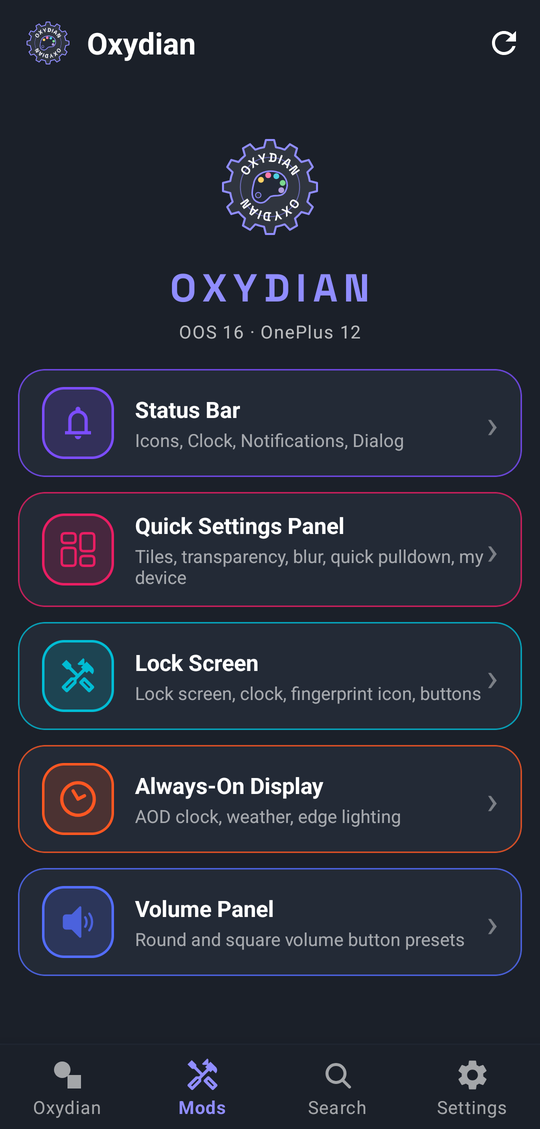
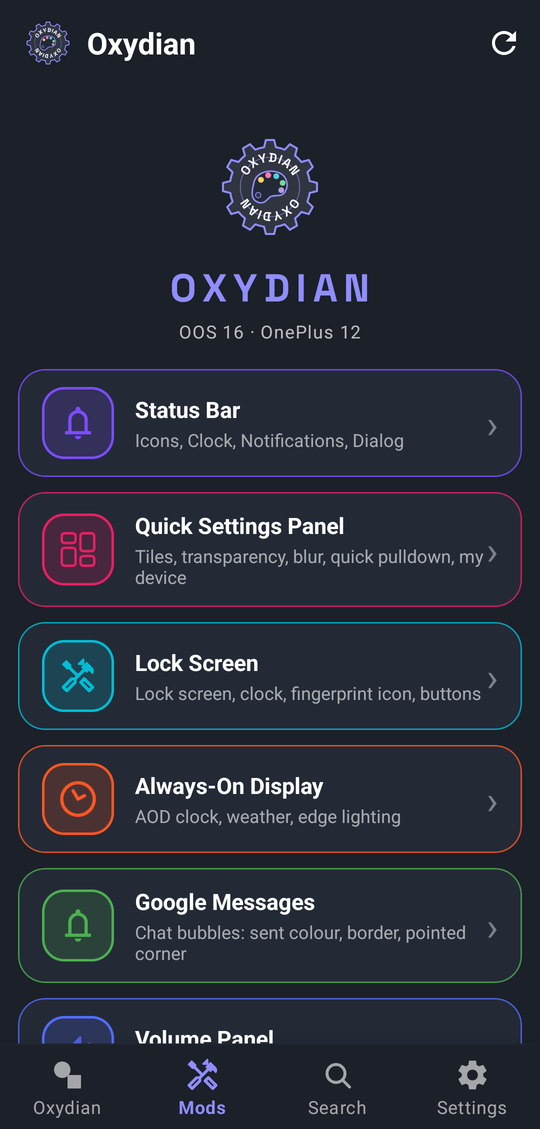
Tutorial: Google Messages chapter and updated Mods screenshots

diff --git a/docs/TUTORIAL.it.md b/docs/TUTORIAL.it.md
@@ -13,7 +13,7 @@ Una guida passo passo: dall'installazione alle prime personalizzazioni.
 - **LSPosed** (o un altro framework Xposed) installato e funzionante
 - Facoltativa ma consigliata: l'app compagna **[Oxydian Theme](https://github.com/tugaia56/Oxydian-Theme/releases/latest)**. Non richiede Xposed e si occupa dei veri temi overlay (colori di accento e sfondo, temi per le app, icone, tastierino del PIN…). Oxydian legge i colori scelti lì, quindi le due app danno il meglio insieme.
 
-> Oxydian è pensato per il **tema scuro**. Con il tema chiaro alcune mod dell'aspetto del sistema (stili notifica, toast, dialog) restano spente e l'aspetto originale non viene toccato. Vedi [Tema chiaro](#7-tema-chiaro).
+> Oxydian è pensato per il **tema scuro**. Con il tema chiaro alcune mod dell'aspetto del sistema (stili notifica, toast, dialog) restano spente e l'aspetto originale non viene toccato. Vedi [Tema chiaro](#8-tema-chiaro).
 
 ---
 
@@ -65,6 +65,7 @@ Il pulsante a forma di freccia circolare, in alto a destra in ogni pagina, è **
 | **Pannello Impostazioni Rapide** | Sfondo e forma dei riquadri, immagine e orologio dell'intestazione, widget, trasparenza e sfocatura |
 | **Schermata di Blocco** | Widget, orologio, meteo, copertina musicale, icona impronta, pulsanti |
 | **Always-On Display** | Orologio AOD, meteo, luce sui bordi |
+| **Google Messaggi** | Aspetto delle bolle della chat di Google Messaggi: colori, bordo, angolo a punta (vedi il [capitolo 5](#5-google-messaggi-bolle-della-chat)) |
 | **Pannello volume** | Colori e preset dei pulsanti |
 
 Esempio di pagina: **Barra di Stato**, con le opzioni varie (tra cui nascondi icona SIM 1 e SIM 2):
@@ -109,7 +110,31 @@ Cambiamo qualcosa che si vede subito.
 
 ---
 
-## 5. Colori: Oxydian + Oxydian Theme
+## 5. Google Messaggi: bolle della chat
+
+Oxydian può cambiare l'aspetto delle bolle della chat di **Google Messaggi**. È una mod Xposed, quindi serve un passaggio in più:
+
+1. In **LSPosed → Moduli → Oxydian**, spunta **Messaggi** (Google Messaggi) nell'ambito.
+2. Chiudi e riapri Messaggi.
+
+Poi apri **Mods → Google Messaggi**:
+
+<p align="center"><img src="img/it_10_messaggi.png" width="230" alt="Pagina Google Messaggi"></p>
+
+- **Bolle**
+  - *Colore delle bolle ricevute*: originale, oppure un colore a scelta.
+  - *Colore delle bolle inviate*: originale, scuro come le ricevute, il colore di accento al 50 % di trasparenza, oppure un colore a scelta (anche trasparente). Il testo diventa chiaro o scuro da solo per restare leggibile.
+- **Forma**
+  - *Bordo delle bolle*: un bordo sottile attorno a ogni bolla, con un colore diverso per ricevute e inviate (l'accento o un colore a scelta) e uno spessore regolabile.
+  - *Angolo a punta*: l'angolo in basso è a punta, a destra sulle bolle inviate e a sinistra su quelle ricevute. Anche gli angoli di unione tra bolle consecutive sono a punta.
+
+Le modifiche si vedono quando la chat viene ridisegnata: scorrila un po' o riaprila. Se non cambia niente, controlla che Messaggi sia spuntato in LSPosed e riavvia l'app.
+
+> La mod segue il modo in cui Google disegna oggi le bolle. Se un aggiornamento di Messaggi lo cambia, le bolle tornano semplicemente all'aspetto originale.
+
+---
+
+## 6. Colori: Oxydian + Oxydian Theme
 
 Oxydian non ridipinge da solo tutto il sistema. I colori di sistema (accento e sfondo) si scelgono in **Oxydian Theme**, che costruisce veri overlay; Oxydian usa poi lo stesso accento per le sue mod (bordi, riquadri, menù di accensione…).
 
@@ -120,7 +145,7 @@ Ordine consigliato:
 
 ---
 
-## 6. Backup e ripristino
+## 7. Backup e ripristino
 
 Prima di fare molte prove, salva le impostazioni.
 
@@ -136,7 +161,7 @@ Tieni una copia del backup fuori dal telefono (cloud o PC) prima di installare d
 
 ---
 
-## 7. Tema chiaro
+## 8. Tema chiaro
 
 Oxydian è compatibile al 100 % con il **tema scuro**. Con il sistema in tema chiaro:
 
@@ -147,7 +172,7 @@ Per il risultato migliore tieni Android in tema scuro.
 
 ---
 
-## 8. Se qualcosa non va
+## 9. Se qualcosa non va
 
 | Problema | Cosa fare |
 |---|---|
@@ -165,7 +190,7 @@ Per segnalare un bug, attiva **Impostazioni → Generale → Log aggiuntivi**, r
 
 ---
 
-## 9. Da sapere
+## 10. Da sapere
 
 - Oxydian nasce dal lavoro di **Oxygen Customizer** di Luigi (@LC9889); vedi i crediti nel README.
 - Ogni versione ha note di rilascio bilingue (inglese / italiano) nella pagina Releases.

diff --git a/docs/TUTORIAL.md b/docs/TUTORIAL.md
@@ -13,7 +13,7 @@ A step-by-step guide: from installation to your first customisations.
 - **LSPosed** (or another Xposed framework) installed and working
 - Optional but recommended: the companion app **[Oxydian Theme](https://github.com/tugaia56/Oxydian-Theme/releases/latest)**. It does not need Xposed and handles the real overlay themes (accent and background colours, app themes, icons, PIN keypad…). Oxydian reads the colours chosen there, so the two apps work best together.
 
-> Oxydian is designed for the **dark theme**. In light mode a few system-look mods (notification styles, toast, dialog) stay switched off and the stock look is left untouched. See [Light theme](#7-light-theme).
+> Oxydian is designed for the **dark theme**. In light mode a few system-look mods (notification styles, toast, dialog) stay switched off and the stock look is left untouched. See [Light theme](#8-light-theme).
 
 ---
 
@@ -65,6 +65,7 @@ The circular-arrow button at the top right of every page is **Restart SystemUI**
 | **Quick Settings Panel** | Tile background and shape, header image and clock, widgets, transparency and blur |
 | **Lock Screen** | Widgets, clock, weather, album art, fingerprint icon, buttons |
 | **Always-On Display** | AOD clock, weather, edge lighting |
+| **Google Messages** | Look of the chat bubbles in Google Messages: colours, border, pointed corner (see [chapter 5](#5-google-messages-chat-bubbles)) |
 | **Volume Panel** | Colours and button presets |
 
 Example page: **Status Bar**, with the miscellaneous options (including hide SIM 1 and SIM 2 icon):
@@ -109,7 +110,31 @@ Let's change something you can see right away.
 
 ---
 
-## 5. Colours: Oxydian + Oxydian Theme
+## 5. Google Messages: chat bubbles
+
+Oxydian can restyle the chat bubbles of **Google Messages**. It is a Xposed mod, so it needs one extra step:
+
+1. In **LSPosed → Modules → Oxydian**, tick **Messages** (Google Messages) in the scope.
+2. Close and reopen Messages.
+
+Then open **Mods → Google Messages**:
+
+<p align="center"><img src="img/en_10_messages.png" width="230" alt="Google Messages page"></p>
+
+- **Bubbles**
+  - *Colour of received bubbles*: original, or any colour you pick.
+  - *Colour of sent bubbles*: original, dark like the received ones, the accent colour at 50 % transparency, or any colour you pick (with transparency). The text turns light or dark by itself to stay readable.
+- **Shape**
+  - *Bubble border*: a thin border around every bubble, with a separate colour for received and sent bubbles (the accent, or any colour you pick) and an adjustable thickness.
+  - *Pointed corner*: the bottom corner is sharp, on the right for sent bubbles and on the left for received ones. The joining corners of consecutive bubbles are sharp too.
+
+Changes show up when the chat is redrawn: scroll it a little or reopen it. If nothing changes, check that Messages is ticked in LSPosed and restart the app.
+
+> The mod follows how Google draws the bubbles today. If a Messages update changes that, the bubbles simply go back to the original look.
+
+---
+
+## 6. Colours: Oxydian + Oxydian Theme
 
 Oxydian does not repaint the whole system by itself. The system colours (accent and background) are chosen in **Oxydian Theme**, which builds real overlays; Oxydian then uses the same accent for its own mods (borders, tiles, power menu…).
 
@@ -120,7 +145,7 @@ Suggested order:
 
 ---
 
-## 6. Backup and restore
+## 7. Backup and restore
 
 Before experimenting a lot, save your settings.
 
@@ -136,7 +161,7 @@ Keep a copy of the backup outside the phone (cloud or PC) before a clean ROM ins
 
 ---
 
-## 7. Light theme
+## 8. Light theme
 
 Oxydian is 100 % compatible with the **dark theme**. With the system in light mode:
 
@@ -147,7 +172,7 @@ For the best result keep Android in dark mode.
 
 ---
 
-## 8. If something goes wrong
+## 9. If something goes wrong
 
 | Problem | What to do |
 |---|---|
@@ -165,7 +190,7 @@ To report a bug, turn on **Settings → General → Extra Logs**, reproduce the 
 
 ---
 
-## 9. Good to know
+## 10. Good to know
 
 - Oxydian is built on the work of **Oxygen Customizer** by Luigi (@LC9889); see the credits in the README.
 - Every release comes with bilingual (English / Italian) release notes on the Releases page.
